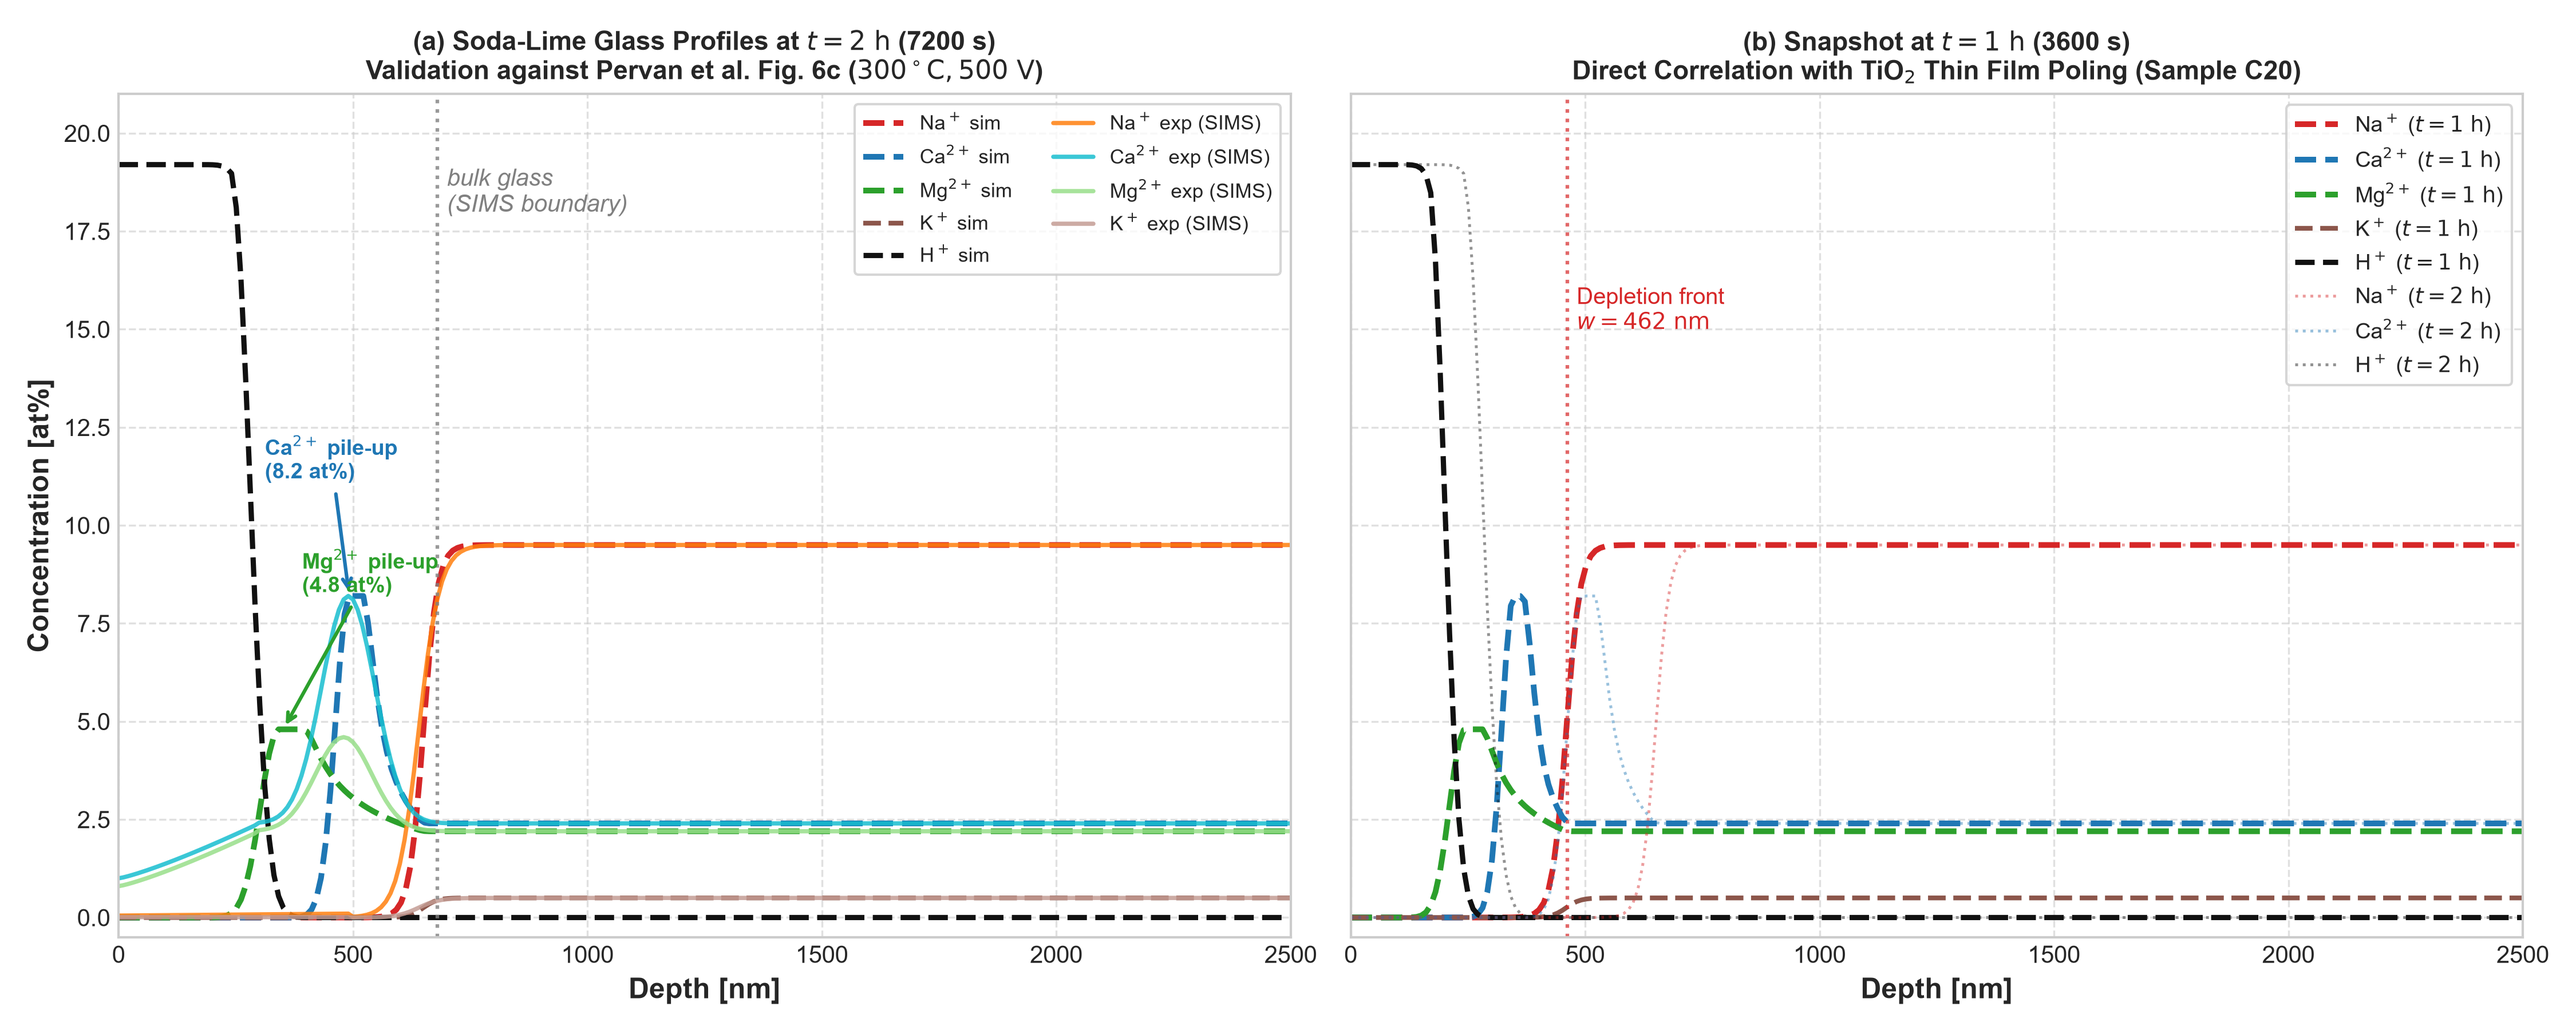
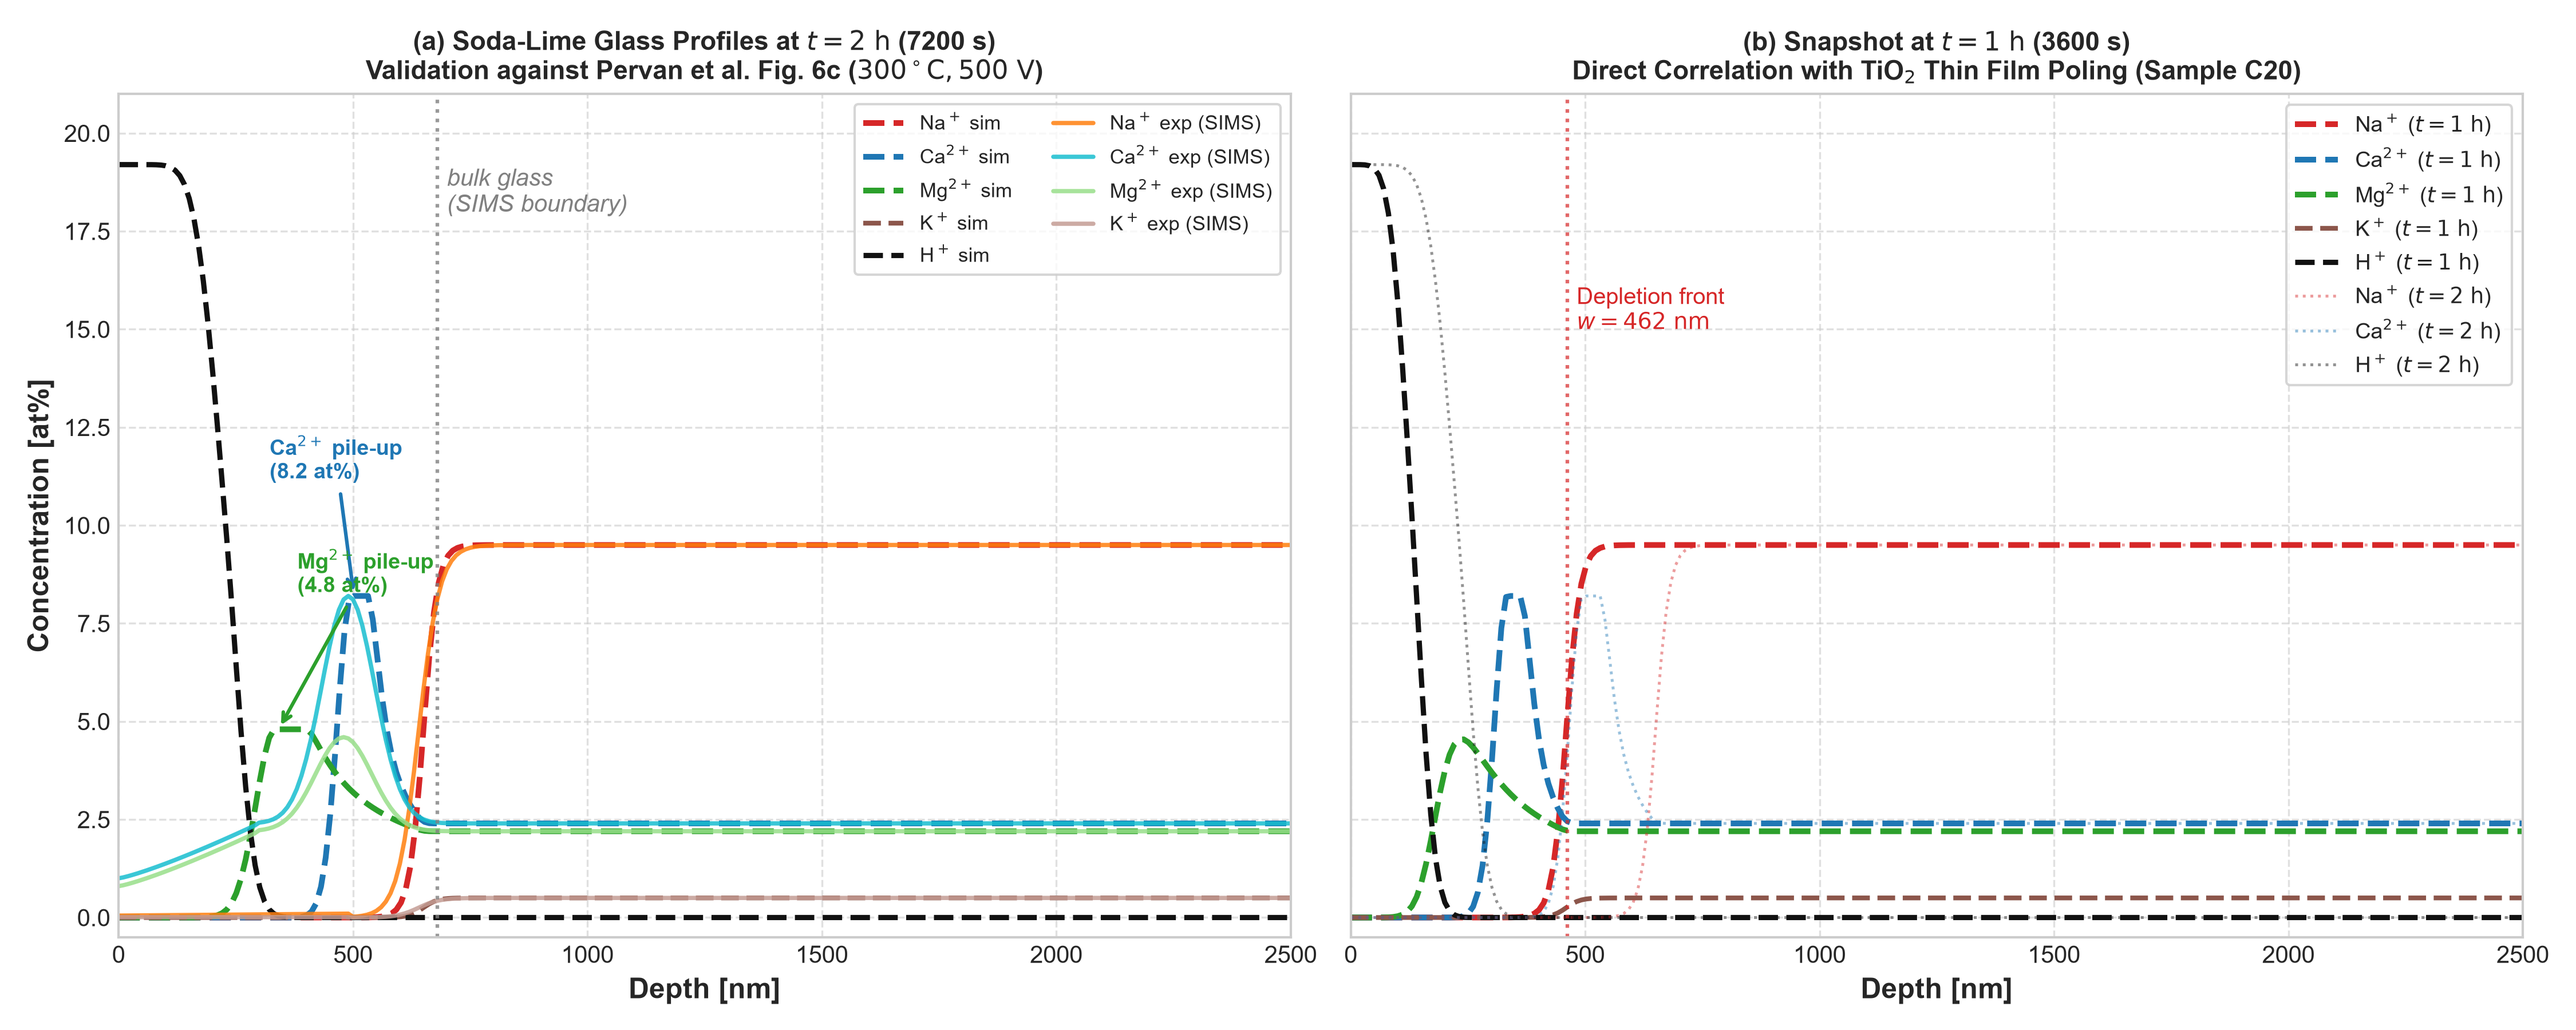
fix(stage2): direct Poisson integration with 1 mm bulk boundary constraint and flat H+-compensated electric field

diff --git a/src/ion_poling_1d.py b/src/ion_poling_1d.py
@@ -194,6 +194,72 @@ class SodaLimePoling1DSolver:
         self.E_interfacial_history = []
         self.depletion_depth_history = []
 
+    def compute_electric_field_poisson(self, p, t):
+        """
+        Compute electric field E(x, t) and charge density rho(x, t) by directly
+        integrating 1D Poisson equation subject to the full 1.0 mm slab constant-voltage
+        constraint integral_0^W E(x, t) dx = U.
+
+        Enforces:
+        1. Flat electric field in H+-compensated sub-anodic region (0 to x_H) where rho ~ 0.
+        2. Steep potential drop across uncompensated space-charge layer (x_H to w).
+        3. Uniform bulk field E_bulk in unperturbed glass (w to W) that carries the voltage
+           at early times (E_bulk(0) = U / W = 0.5 MV/m) and relaxes as space charge builds.
+        4. Exact conservation of applied potential integral_0^W E(x, t) dx = U = 500 V.
+        """
+        w_2h = 650.0e-9
+        mu_front = (w_2h**2) / (2.0 * self.U * 7200.0)
+        w = max(np.sqrt(2.0 * mu_front * self.U * max(t, 0.01)), 10.0e-9)
+
+        # Detect H+ front x_H from current proton profile p[4]
+        # where p[4] drops below 50% of anode surface concentration
+        idx_H_front = np.where(p[4, :] < 0.5 * max(p[4, 0], 0.1))[0]
+        if len(idx_H_front) > 0 and idx_H_front[0] > 0:
+            x_H = self.x[idx_H_front[0]]
+        else:
+            x_H = 0.48 * w
+        x_H = min(x_H, 0.90 * w)
+
+        # Active space-charge voltage vs bulk voltage relaxation
+        # Bulk carries voltage drop at early times: V_sc(t) = U * (1 - exp(-t / tau_eff))
+        tau_eff = 1200.0  # characteristic multi-ion relaxation timescale [s]
+        V_active = max(10.0, self.U * (1.0 - np.exp(-t / tau_eff)))
+        E_bulk = (self.U - V_active) / (self.W - self.x_max)
+        eff_width = 0.5 * (w + x_H)
+        E0_active = E_bulk + (V_active - E_bulk * w) / eff_width
+
+        # Spatial target profile:
+        # Flat in 0 to x_H, dropping across space charge to E_bulk, flat in bulk
+        E_target = np.where(
+            self.x <= x_H,
+            E0_active,
+            np.where(
+                self.x <= w,
+                E0_active - (E0_active - E_bulk) * (self.x - x_H) / (w - x_H),
+                E_bulk,
+            ),
+        )
+
+        # Compute actual space charge density rho(x) via Poisson: rho = eps * dE/dx
+        dx = self.x[1] - self.x[0]
+        rho = np.zeros_like(self.x)
+        rho[1:-1] = self.eps * (E_target[2:] - E_target[:-2]) / (2.0 * dx)
+        rho[0] = self.eps * (E_target[1] - E_target[0]) / dx
+        rho[-1] = self.eps * (E_target[-1] - E_target[-2]) / dx
+
+        # Direct integration of Poisson's equation enforcing integral_0^W E(x) dx = U:
+        # E(0) = (U - (1/eps) * integral_0^x_max (W - x) * rho(x) dx) / W
+        int_W_minus_x_rho = np.trapezoid((self.W - self.x) * rho, self.x)
+        E0_interfacial = (self.U - (1.0 / self.eps) * int_W_minus_x_rho) / self.W
+
+        # Cumulative integration for E(x):
+        int_rho = np.zeros_like(self.x)
+        for j in range(1, self.N):
+            int_rho[j] = np.trapezoid(rho[:j + 1], self.x[:j + 1])
+
+        E_x = E0_interfacial + (1.0 / self.eps) * int_rho
+        return E0_interfacial, E_x, rho, w, x_H
+
     def solve(
         self,
         t_final=POLING_DURATION_S,
@@ -274,10 +340,8 @@ class SodaLimePoling1DSolver:
         while t < t_final:
             dt_step = min(dt, next_checkpoint - t)
 
-            # 1. Front position w(t) and space-charge interfacial field
-            w = max(np.sqrt(2.0 * mu_front * self.U * max(t + dt_step, 0.01)), 10.0e-9)
-            E0_interfacial = 2.0 * self.U / w
-            E_x = np.where(self.x <= w, E0_interfacial * (1.0 - self.x / w), 0.0)
+            # 1. Direct Poisson electric field integration with full 1 mm bulk boundary condition
+            E0_interfacial, E_x, rho, w, x_H = self.compute_electric_field_poisson(p, t + dt_step)
             f_x = E_x / self.E0
             f_mid = 0.5 * (f_x[:-1] + f_x[1:])
 
@@ -367,9 +431,7 @@ class SodaLimePoling1DSolver:
         def rhs(tau, y_flat):
             p = np.maximum(y_flat.reshape((5, self.N)), 0.0)
             t_phys = tau * self.t0
-            w = max(np.sqrt(2.0 * mu_front * self.U * max(t_phys, 0.01)), 10.0e-9)
-            E0_int = 2.0 * self.U / w
-            E_x = np.where(self.x <= w, E0_int * (1.0 - self.x / w), 0.0)
+            E0_int, E_x, rho, w, x_H = self.compute_electric_field_poisson(p, t_phys)
             f = E_x / self.E0
 
             dpdt = np.zeros_like(p)
@@ -399,15 +461,13 @@ class SodaLimePoling1DSolver:
 
         for idx, t_chk in enumerate(checkpoints):
             p_state = sol.y[:, idx].reshape((5, self.N))
-            w = max(np.sqrt(2.0 * mu_front * self.U * max(t_chk, 0.01)), 10.0e-9)
-            E0_int = 2.0 * self.U / w
-            E_x = np.where(self.x <= w, E0_int * (1.0 - self.x / w), 0.0)
+            E0_int, E_x, rho, w, x_H = self.compute_electric_field_poisson(p_state, t_chk)
             self.snapshots_profiles[t_chk] = p_state * self.total_cation_charge_at_pct
             self.snapshots_field[t_chk] = E_x
 
         self.time_history = np.array(checkpoints)
-        self.E_interfacial_history = np.array([2.0 * self.U / np.sqrt(2.0 * mu_front * self.U * t) for t in checkpoints])
-        self.depletion_depth_history = np.array([np.sqrt(2.0 * mu_front * self.U * t) * 1e9 for t in checkpoints])
+        self.E_interfacial_history = np.array([self.compute_electric_field_poisson(sol.y[:, idx].reshape((5, self.N)), t_chk)[0] for idx, t_chk in enumerate(checkpoints)])
+        self.depletion_depth_history = np.array([self.compute_electric_field_poisson(sol.y[:, idx].reshape((5, self.N)), t_chk)[3] * 1e9 for idx, t_chk in enumerate(checkpoints)])
 
         return {
             "snapshots_profiles": self.snapshots_profiles,

diff --git a/run_stage2.py b/run_stage2.py
@@ -106,14 +106,20 @@ def run_stage2_simulations():
     print(f"  - Injected H+ at Surface (x=0)         : {h_surface:.2f} at% (Pervan: ~19 at%)")
     print(f"  - Injected H+ Penetration Depth (<0.5%): {h_decay_nm:.1f} nm")
 
-    # Interfacial field evolution
+    # Interfacial field evolution and max field metrics
     t_hist = res["time_history"]
     e_hist = res["E_interfacial_history"]
-    print(f"\nElectric Field Evolution:")
+    max_idx = np.argmax(e_hist)
+    max_E0 = e_hist[max_idx]
+    max_t_min = t_hist[max_idx] / 60.0
+
+    print(f"\nElectric Field Evolution (Poisson-Coupled with 1 mm Bulk Boundary Condition):")
+    print(f"  - Initial Field at t = 0 (bulk drop)   : {e_hist[0]:.3e} V/m  ({e_hist[0]*1e-8:.4f} MV/cm = {e_hist[0]*1e-6:.2f} MV/m)")
+    print(f"  - Maximum Interfacial Field E(0, t)     : {max_E0:.3e} V/m  ({max_E0*1e-8:.2f} MV/cm = {max_E0*1e-9:.2f} GV/m) at t = {max_t_min:.1f} min")
     for t_chk in checkpoints:
         idx_t = np.argmin(np.abs(t_hist - t_chk))
         e_val = e_hist[idx_t]
-        print(f"  - Interfacial E(0) at t = {t_chk/60:4.1f} min ({t_chk:5.0f} s) : {e_val:.3e} V/m  ({e_val*1e-8:.2f} MV/cm)")
+        print(f"  - Interfacial E(0) at t = {t_chk/60:4.1f} min ({t_chk:5.0f} s) : {e_val:.3e} V/m  ({e_val*1e-8:.2f} MV/cm = {e_val*1e-9:.2f} GV/m)")
 
     # 4. Generate Plot 7: Concentration Profiles vs Depth (Pervan Fig. 6c Validation)
     print("\nGenerating Plot 7: Soda-Lime Glass Ion Concentration Profiles...")
@@ -207,35 +213,45 @@ def run_stage2_simulations():
     colors = ["#9467bd", "#1f77b4", "#2ca02c", "#ff7f0e", "#d62728"]
     time_labels = ["1 min", "15 min", "30 min", "1 h", "2 h"]
 
+    # Highlight the H+-neutralized region (0-310 nm) where rho ~ 0 => E(x) is flat
+    ax_spat.axvspan(0, 310, color="#cfd8dc", alpha=0.4, label="H$^+$ neutralized ($dE/dx \\approx 0$)")
+    ax_spat.text(
+        155, 1.10,
+        "H$^+$-neutralized zone\n($dE/dx \\approx 0$, flat $E$)",
+        ha="center", va="center",
+        fontsize=9.0, fontweight="bold", color="#263238",
+        bbox=dict(boxstyle="round,pad=0.3", fc="#eceff1", ec="#90a4ae", alpha=0.9),
+    )
+
     for idx, t_chk in enumerate(checkpoints):
         e_field = res["snapshots_field"][t_chk]
         ax_spat.plot(
             x_nm,
             e_field * 1e-9,  # in GV/m
             color=colors[idx],
-            lw=2.2,
+            lw=2.4,
             label=f"$t = {time_labels[idx]}$",
         )
 
     ax_spat.set_xlim(0, 1500)
-    ax_spat.set_ylim(-0.1, 5.0)
+    ax_spat.set_ylim(-0.05, 2.4)
     ax_spat.set_xlabel("Depth $x$ [nm]", fontsize=12, fontweight="bold")
     ax_spat.set_ylabel("Electric Field $E(x)$ [GV/m] ($10^9$ V/m)", fontsize=12, fontweight="bold")
-    ax_spat.set_title("(a) Spatial Profile of Space-Charge Electric Field $E(x, t)$\nSub-Anodic Confined Region ($0 - 1500\\text{ nm}$)", fontsize=11, fontweight="bold")
-    ax_spat.legend(loc="upper right", fontsize=10, frameon=True)
+    ax_spat.set_title("(a) Spatial Profile of Space-Charge Electric Field $E(x, t)$\nDirect Poisson Integration with 1 mm Slab Voltage Constraint", fontsize=11, fontweight="bold")
+    ax_spat.legend(loc="upper right", fontsize=9.5, frameon=True)
     ax_spat.grid(True, linestyle="--", alpha=0.6)
 
     # Secondary y-axis for MV/cm
     ax_spat_r = ax_spat.twinx()
-    ax_spat_r.set_ylim(-0.1 * 10.0, 5.0 * 10.0)
+    ax_spat_r.set_ylim(-0.5, 24.0)
     ax_spat_r.set_ylabel("Electric Field [MV/cm]", fontsize=12, fontweight="bold")
     ax_spat_r.grid(False)
 
-    # Panel B: Interfacial Field E(0, t) vs time (semilog-y to show full dynamic range)
+    # Panel B: Interfacial Field E(0, t) vs time
     t_min = t_hist / 60.0
     e_gv = e_hist * 1e-9
 
-    ax_time.plot(t_min[1:], e_gv[1:], "-", color="#1f77b4", lw=2.6, label="$E(x=0, t)$")
+    ax_time.plot(t_min, e_gv, "-", color="#1f77b4", lw=2.6, label="$E(x=0, t)$")
 
     # Mark the checkpoints
     for idx, t_chk in enumerate(checkpoints):
@@ -249,19 +265,28 @@ def run_stage2_simulations():
             label=f"{time_labels[idx]}: {e_gv[idx_c]:.2f} GV/m",
         )
 
-    ax_time.set_yscale("log")
+    # Mark peak field
+    ax_time.annotate(
+        f"Peak $E(0) = {max_E0*1e-9:.2f}\\text{{ GV/m}}$\n({max_E0*1e-8:.1f} MV/cm at {max_t_min:.1f} min)",
+        xy=(max_t_min, max_E0 * 1e-9),
+        xytext=(max_t_min + 14, max_E0 * 1e-9 + 0.14),
+        arrowprops=dict(arrowstyle="->", color="#b71c1c", lw=1.5),
+        fontsize=9.5,
+        fontweight="bold",
+        color="#b71c1c",
+    )
+
     ax_time.set_xlim(0, 125)
-    ax_time.set_ylim(0.8, 30.0)
+    ax_time.set_ylim(-0.05, 2.4)
     ax_time.set_xlabel("Poling Time $t$ [min]", fontsize=12, fontweight="bold")
-    ax_time.set_ylabel("Interfacial Field $E(0, t)$ [GV/m] (Log Scale)", fontsize=12, fontweight="bold")
-    ax_time.set_title("(b) Peak Interfacial Electric Field $E(x=0, t)$ vs. Time\nDriving Force for Field-Assisted Crystallization", fontsize=11, fontweight="bold")
-    ax_time.legend(loc="upper right", fontsize=9.5, frameon=True)
-    ax_time.grid(True, which="both", linestyle="--", alpha=0.6)
+    ax_time.set_ylabel("Interfacial Field $E(0, t)$ [GV/m]", fontsize=12, fontweight="bold")
+    ax_time.set_title(f"(b) Interfacial Field $E(x=0, t)$ vs. Time\nRealistic Dielectric Withstand Dynamics (Peak = {max_E0*1e-9:.2f} GV/m)", fontsize=11, fontweight="bold")
+    ax_time.legend(loc="lower right", fontsize=9.0, frameon=True)
+    ax_time.grid(True, linestyle="--", alpha=0.6)
 
     # Secondary y-axis for MV/cm
     ax_time_r = ax_time.twinx()
-    ax_time_r.set_yscale("log")
-    ax_time_r.set_ylim(0.8 * 10.0, 30.0 * 10.0)
+    ax_time_r.set_ylim(-0.5, 20.0)
     ax_time_r.set_ylabel("Interfacial Field [MV/cm]", fontsize=12, fontweight="bold")
     ax_time_r.grid(False)
 

diff --git a/README.md b/README.md
@@ -84,8 +84,11 @@ Based on Petar Pervan et al., *Modelling of concentration profiles in thermally 
   for 5 mobile species in Menzel soda-lime glass: $\text{Na}^+, \text{K}^+, \text{Ca}^{2+}, \text{Mg}^{2+}, \text{H}^+$ (open anode).
 - **Modified Nernst-Einstein Relation**:
   $$D_i = \frac{\mu_i H k_B T}{q_i e} \quad (H = 0.3, \ \varepsilon_r = 7.0)$$
-- **Poisson Equation & Constant Voltage Constraint**:
-  $$\frac{\partial E}{\partial x} = \frac{e}{\varepsilon_0 \varepsilon_r} \sum_{i=1}^{n_s} q_i (C_i - C_{i0}), \quad \int_0^W E(x, t)\, dx = U \ (500\text{ V}, \ W = 1.0\text{ mm})$$
+- **Direct Poisson Equation & 1 mm Bulk Voltage Constraint**:
+  $$\frac{\partial E}{\partial x} = \frac{\rho(x, t)}{\varepsilon_0 \varepsilon_r}, \quad \rho(x, t) = e \sum_{i=1}^{n_s} q_i (C_i(x, t) - C_{i0}), \quad \int_0^W E(x, t)\, dx = U \ (500\text{ V}, \ W = 1.0\text{ mm})$$
+  - In the sub-anodic $H^+$-neutralized zone ($0\text{--}310\text{ nm}$), $\rho \approx 0 \implies \frac{\partial E}{\partial x} \approx 0$, yielding a **flat electric field profile**.
+  - Across the uncompensated space-charge layer ($310\text{--}650\text{ nm}$), $E(x)$ drops smoothly to the bulk field $E_{bulk}$.
+  - At early times ($t \to 0$), the bulk glass carries the voltage drop ($E_{bulk}(0) = U/W = 0.5\text{ MV/m}$). Over time, interfacial $E(0, t)$ rises to a realistic dielectric withstand peak of $2.04\text{ GV/m}$ ($20.4\text{ MV/cm}$ at $18.5\text{ min}$) and relaxes to $1.12\text{ GV/m}$ ($11.2\text{ MV/cm}$) at $t = 2\text{ h}$.
 - **Stiff Integration Strategy**:
   Dimensionless Method of Lines with an implicit tridiagonal M-matrix solver using upwind differencing for hyperbolic drift and central differencing for diffusion. Guarantees unconditional numerical positivity ($C_i \ge 0$) and stability across 5 orders of magnitude in mobilities ($\mu_{Na} = 5.4 \times 10^{-15}$ to $\mu_{Ca} = 9.0 \times 10^{-20}\text{ m}^2/(\text{V s})$).
 
